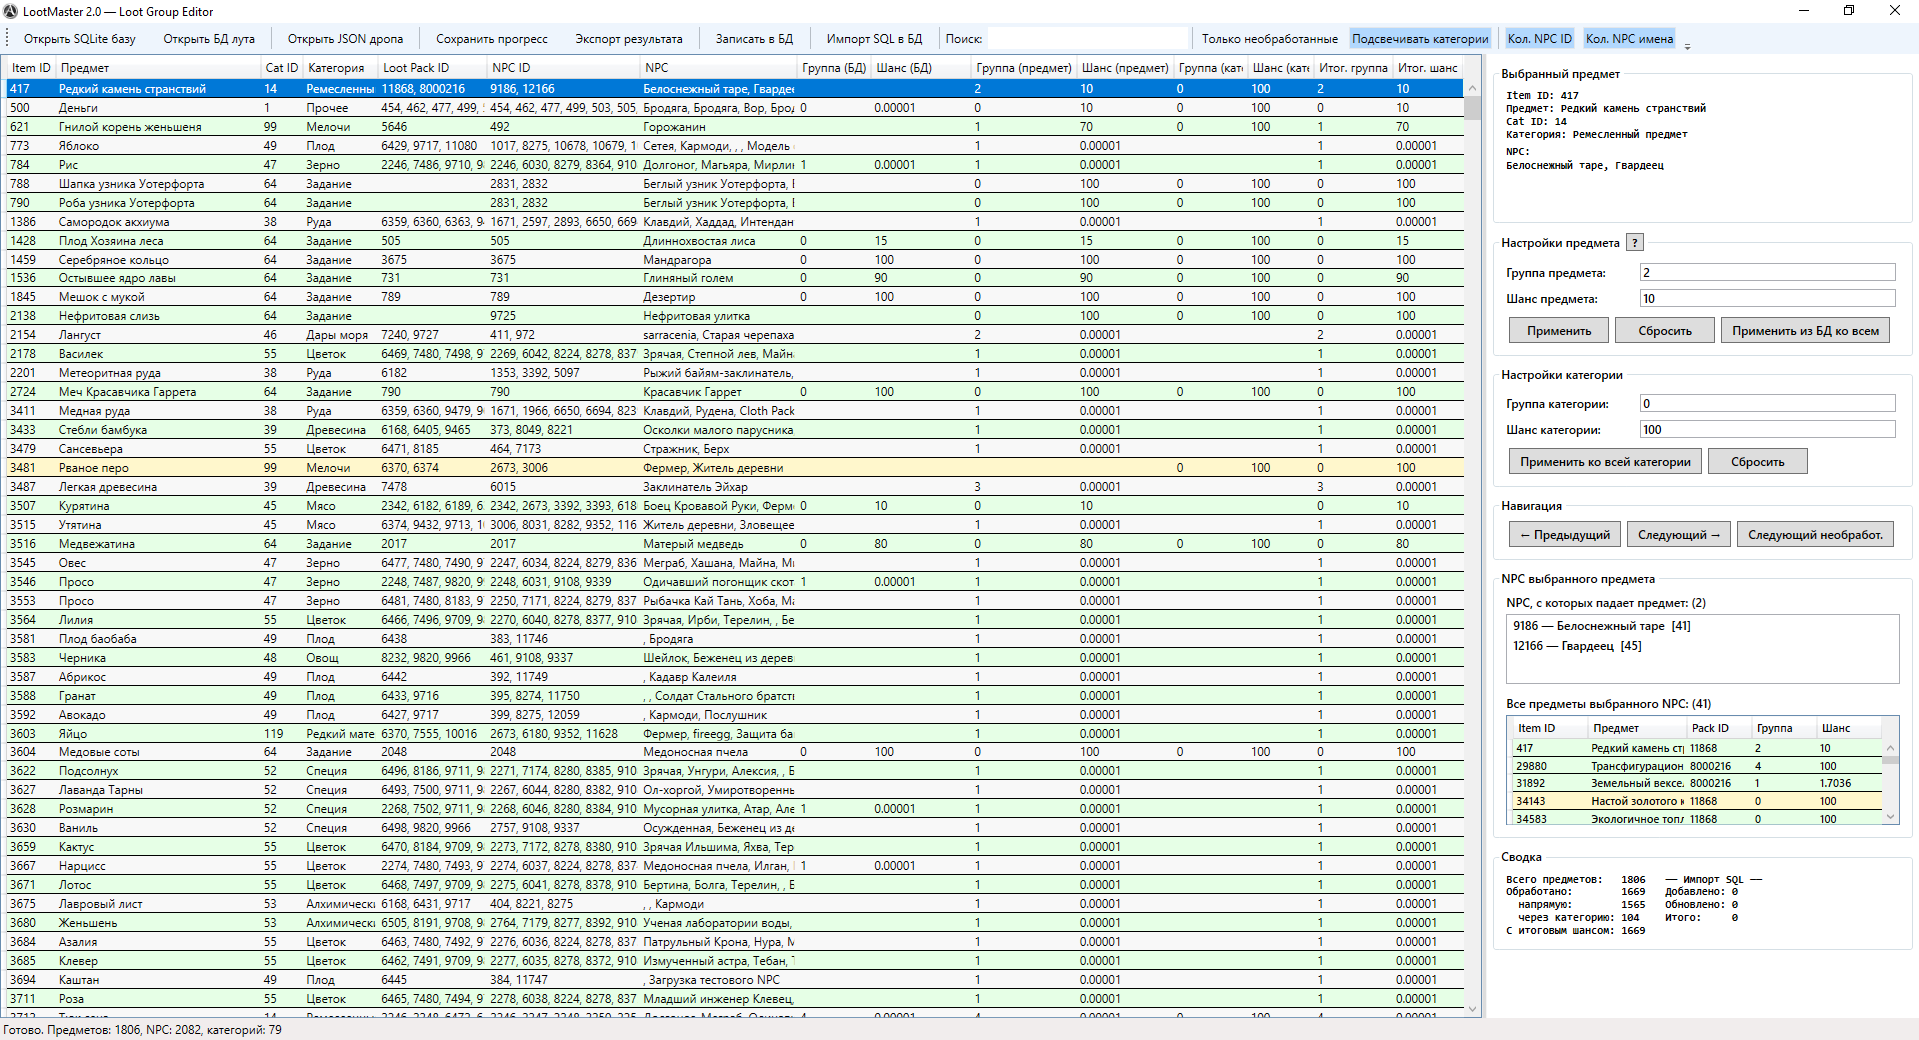
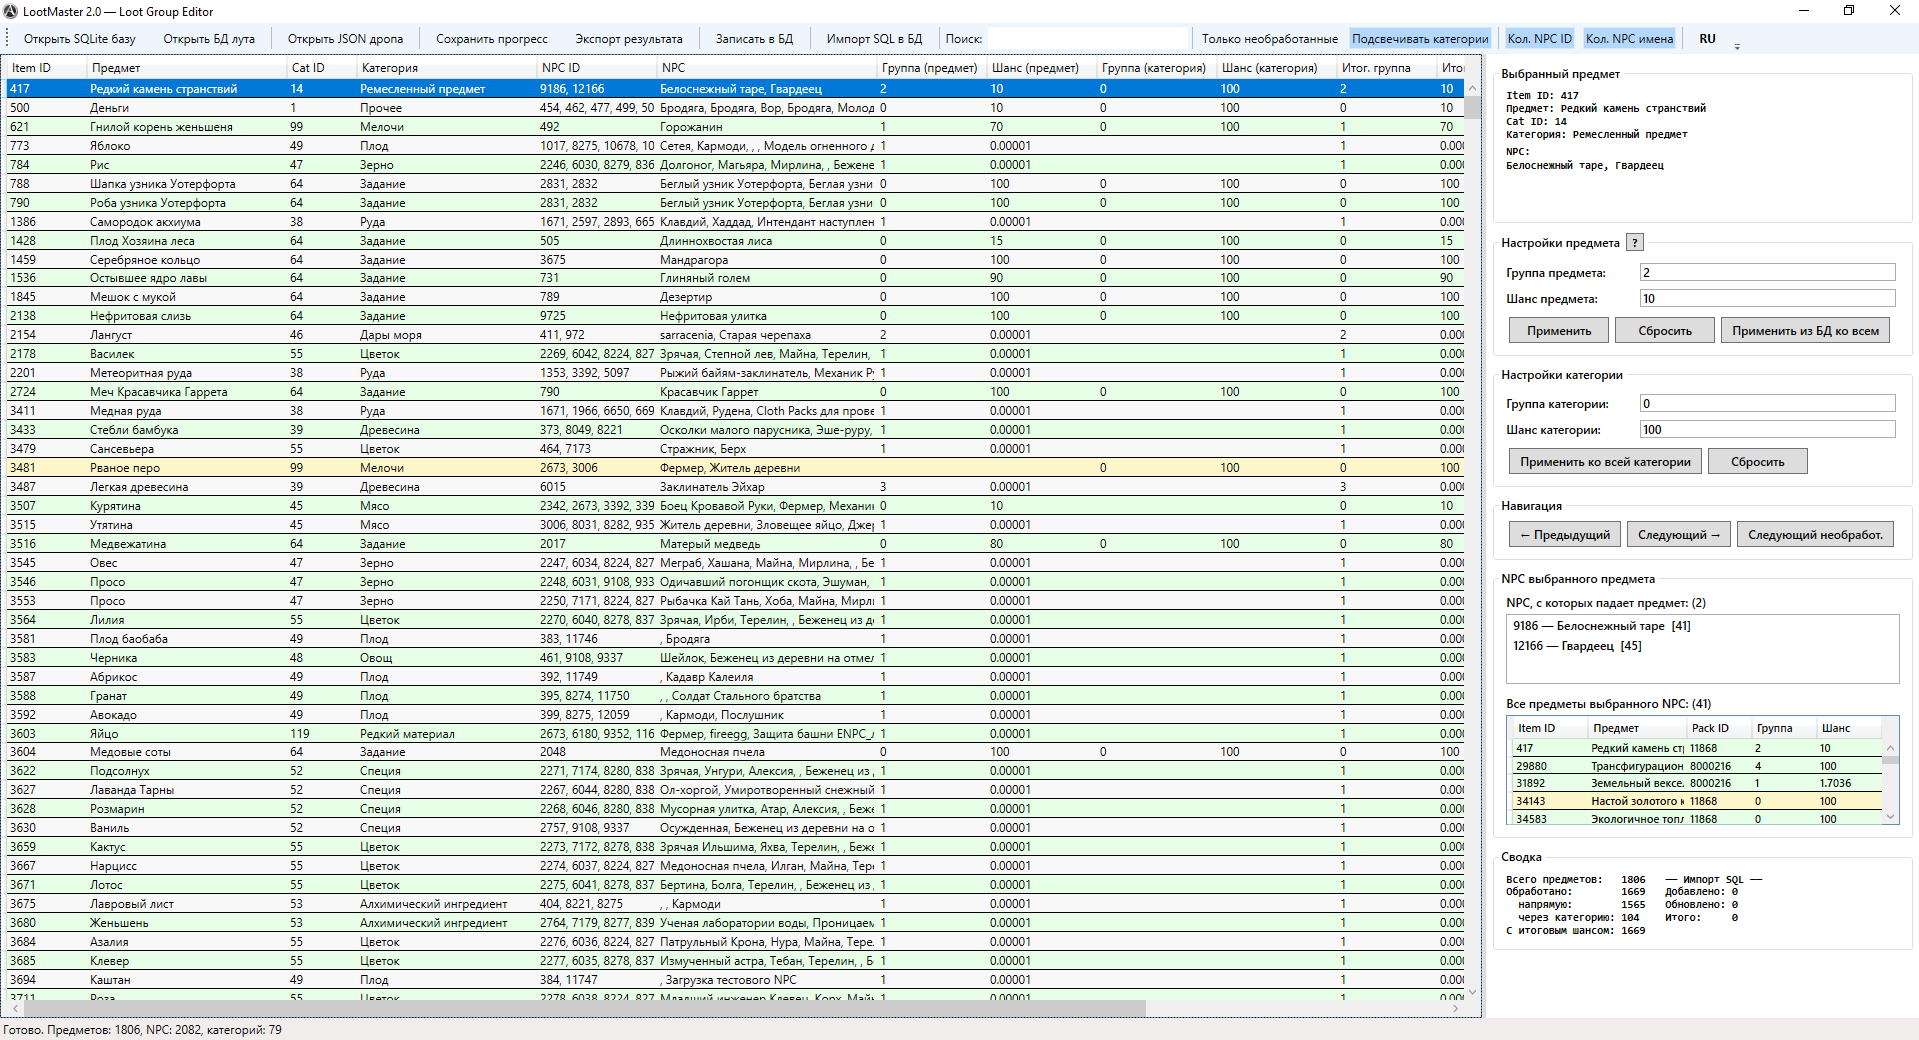
docs: add EN screenshot, update README and user-guide
- README: added screenshot2.png (EN), expanded features list,
  updated Getting Started to use EN button names, added column-settings.json
- user-guide.md: corrected filter checkbox labels

diff --git a/README.md b/README.md
@@ -3,7 +3,8 @@
 A WPF desktop tool for assigning loot groups and drop chances to ArcheAge items.
 Loads NPC drop tables from JSON files and item/NPC metadata from an SQLite database.
 
-![LootMaster 2.0 screenshot](Docs/screenshot.png)
+![LootMaster 2.0 screenshot (RU)](Docs/screenshot.png)
+![LootMaster 2.0 screenshot (EN)](Docs/screenshot2.png)
 
 ---
 
@@ -18,7 +19,10 @@ Loads NPC drop tables from JSON files and item/NPC metadata from an SQLite datab
 - Jump to any item from the NPC browser with a double-click
 - Auto-save after every change; session is restored automatically on next launch
 - Export results to JSON for use in the server emulator
-- Full UI localization: switch between Russian and English with a single toolbar button (RU/EN)
+- Write results directly to SQLite via upsert (loots + loot_groups tables)
+- Import SQL dumps (including Navicat format) directly into the loot database
+- Two separate SQLite databases supported: data DB + loot DB
+- Full UI localization: switch between Russian and English with a single **RU/EN** toolbar button
 
 ---
 
@@ -31,26 +35,25 @@ Loads NPC drop tables from JSON files and item/NPC metadata from an SQLite datab
 
 ## Getting Started
 
-1. **Open SQLite database** — click "Открыть SQLite базу" and select your `compact.server.table.sqlite3` file
-2. **Open loot JSON file(s)** — click "Открыть JSON дропа" and select one or more loot files
+1. **Open SQLite database** — click "Open SQLite DB" and select your `compact.sqlite3` file
+2. **Open loot DB** *(if separate)* — click "Open Loot DB" and select `compact.server.table.sqlite3`
+3. **Open loot JSON file(s)** — click "Open Drop JSON" and select one or more loot files
 
-Expected loot JSON format:
+Supported loot JSON formats:
+
+NPC loot:
 ```json
-[
-  {
-    "npc_id": 123,
-    "items": [
-      { "item_id": 456 },
-      { "item_id": 789 }
-    ]
-  }
-]
+[{ "npc_id": 123, "items": [{ "item_id": 456 }] }]
+```
+Doodad loot:
+```json
+[{ "doodad_id": 322, "loot_pack_id": 6414, "items": [{ "item_id": 456 }] }]
 ```
 
-3. The table populates with all items and their associated NPCs
-4. Select an item, fill in group/chance in the right panel, click **Применить**
-5. Use **Применить ко всей категории** to apply the same values to all items in a category
-6. Press **Ctrl+S** to save, or use **Экспорт результата** to export the final JSON
+4. The table populates with all items and their associated NPCs
+5. Select an item, fill in group/chance in the right panel, click **Apply**
+6. Use **Apply to whole category** to apply the same values to all items in a category
+7. Press **Ctrl+S** to save, or use **Write to DB** / **Export Result** when done
 
 ---
 
@@ -62,6 +65,7 @@ All data is stored in the `Data\` folder next to the executable:
 LootMaster.exe
 Data\
   loot_group_progress.json    ← working progress file (auto-created)
+  column-settings.json        ← column layout, panel widths, window size, language
 ```
 
 ---

diff --git a/Docs/user-guide.md b/Docs/user-guide.md
@@ -131,8 +131,8 @@ NPC-лут:
 |---|---|
 | Поле **"Поиск:"** | Фильтрует по ID, имени предмета, ID и имени категории, ID и именам NPC |
 | Чекбокс **"Только необработанные"** | Скрывает уже назначенные предметы (зелёные и жёлтые) |
-| Чекбокс **"Подсвечивать предметы с группой категории"** | Включает/выключает жёлтую подсветку унаследованных строк |
-| Чекбоксы **"Кол. NPC ID"** / **"NPC имена"** | Показывает/скрывает соответствующие колонки |
+| Чекбокс **"Подсвечивать категории"** | Включает/выключает жёлтую подсветку строк, у которых группа унаследована от категории |
+| Чекбоксы **"Кол. NPC ID"** / **"Кол. NPC имена"** | Показывает/скрывает соответствующие колонки таблицы |
 | Кнопка **"RU"** / **"EN"** | Переключает язык всего интерфейса: названия предметов, NPC, кнопки, подписи, статусные сообщения. Настройка сохраняется между запусками. |
 
 ---
